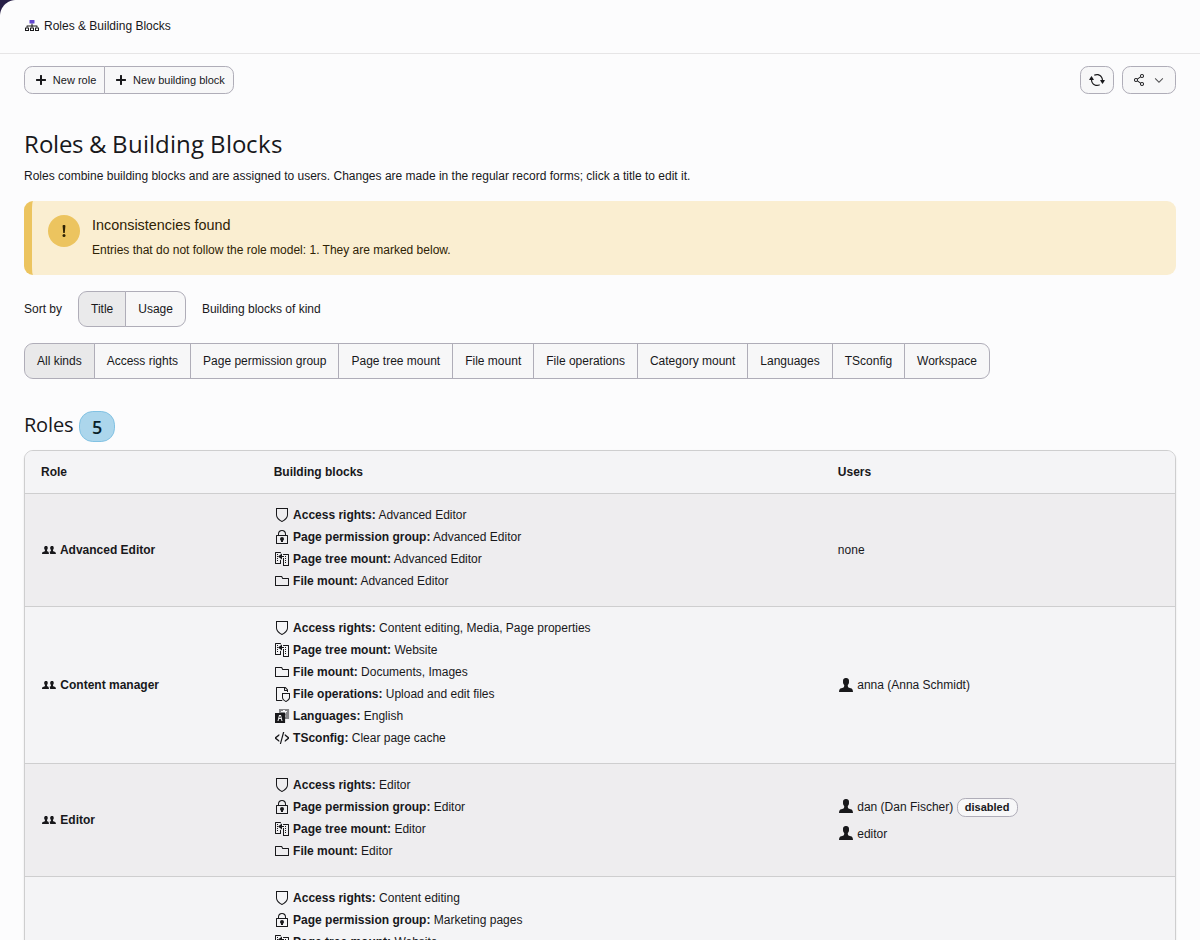
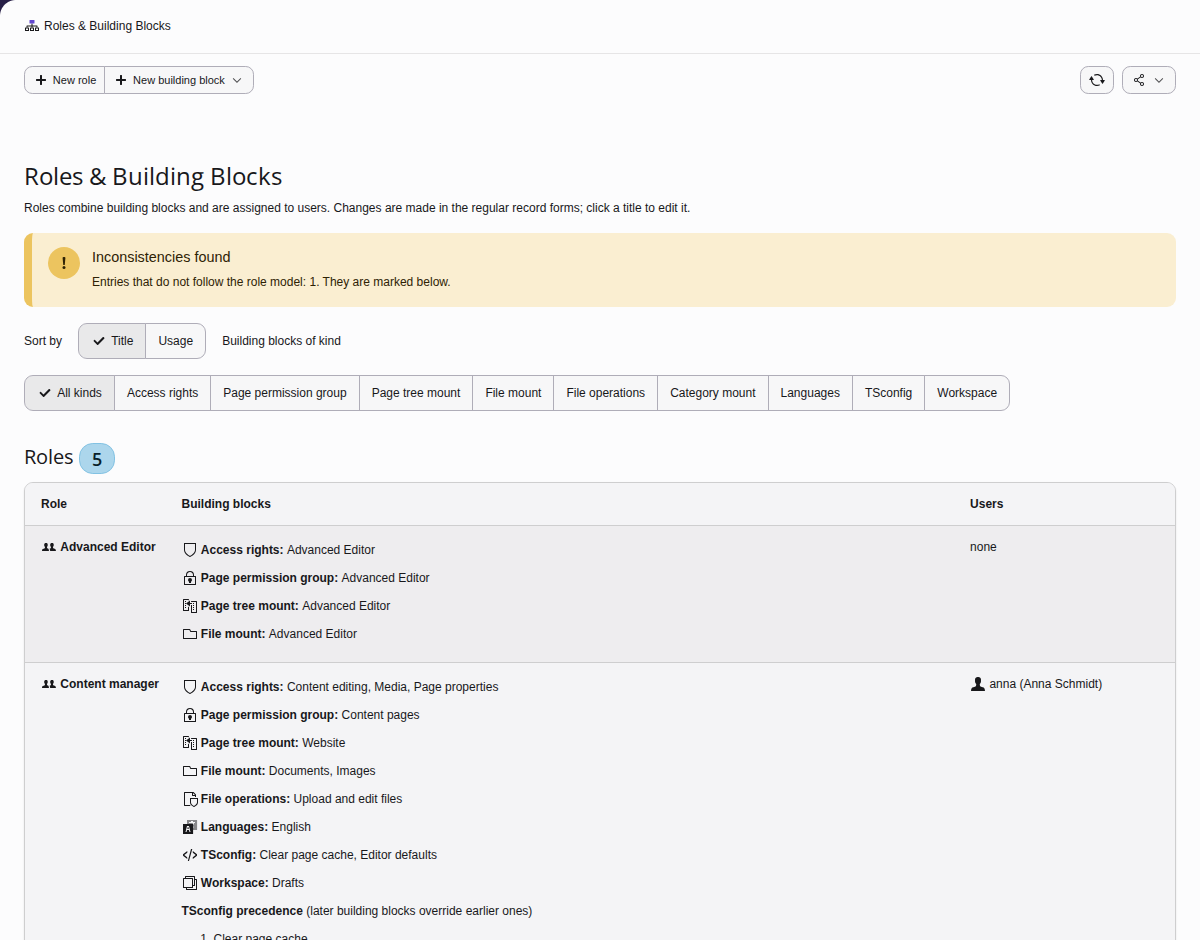
[DOCS] Show a complete role and the current module in the screenshots
The screenshots of the manual came from before the fixes of the
acceptance test: the Users module showed the icon of roles for every
group, the module had no kind menu, no marked filter and no TSconfig
precedence, and the example role started with an access-rights block
and had no workspace block, which the caption had to excuse.

The role "Content manager" of the scenario now starts with its own
page permission group and contains the workspace block, as the manual
recommends. All five screenshots are taken again in the light and the
dark theme from the core default groups after begroups:split and this
scenario, and the caption no longer needs the excuse.

diff --git a/Build/tests/playwright/e2e/forms.spec.ts b/Build/tests/playwright/e2e/forms.spec.ts
@@ -64,6 +64,7 @@ test.describe('Forms of groups', () => {
     await expect(available).toHaveAttribute('size', '17');
     // The stored order of the building blocks is their TSconfig precedence
     await expect(backend.contentFrame.locator('select[multiple][data-formengine-input-name$="[subgroup]"] option')).toHaveText([
+      /PG: Content pages/,
       /ACL: Content editing/,
       /ACL: Page properties/,
       /ACL: Media/,
@@ -74,6 +75,7 @@ test.describe('Forms of groups', () => {
       /L: English/,
       /TS: Clear page cache/,
       /TS: Editor defaults/,
+      /WS: Drafts/,
     ]);
   });
 

diff --git a/Build/tests/playwright/scenario.php b/Build/tests/playwright/scenario.php
@@ -65,6 +65,7 @@ $descriptions = [
     'English' => 'Content in the default language.',
     'Clear page cache' => 'Lets editors clear the page cache.',
     'Editor defaults' => 'Settings of the backend for editors.',
+    'Content pages' => 'Owner group of the pages of the content managers.',
     'Marketing pages' => 'Owner group of the pages of the marketing team.',
     'Products' => 'Product categories.',
     'Drafts' => 'Edits the live workspace.',
@@ -103,11 +104,12 @@ $datamap = [
         'NEWlanguage' => $group('English', 'language', ['allowed_languages' => '0']),
         'NEWts' => $group('Clear page cache', 'tsconfig', ['TSconfig' => 'options.clearCache.pages = 1']),
         'NEWtsEditor' => $group('Editor defaults', 'tsconfig', ['TSconfig' => 'options.pageTree.showPageIdWithTitle = 1']),
+        'NEWpgContent' => $group('Content pages', 'page_group'),
         'NEWpg' => $group('Marketing pages', 'page_group'),
         'NEWcm' => $group('Products', 'category_mount', ['category_perms' => (string)$products]),
         'NEWws' => $group('Drafts', 'workspace', ['workspace_perms' => 1]),
         'NEWroleContent' => $group('Content manager', 'role', [
-            'subgroup' => 'NEWaclContent,NEWaclPages,NEWaclMedia,NEWdbm,NEWfmImages,NEWfmDocuments,NEWfo,NEWlanguage,NEWts,NEWtsEditor',
+            'subgroup' => 'NEWpgContent,NEWaclContent,NEWaclPages,NEWaclMedia,NEWdbm,NEWfmImages,NEWfmDocuments,NEWfo,NEWlanguage,NEWts,NEWtsEditor,NEWws',
         ]),
         'NEWroleMarketing' => $group('Marketing', 'role', [
             'subgroup' => 'NEWpg,NEWaclContent,NEWdbm,NEWfmImages,NEWfo,NEWcm,NEWws',

diff --git a/Documentation/Localization.de_DE/Usage/Index.rst b/Documentation/Localization.de_DE/Usage/Index.rst
@@ -63,10 +63,8 @@ Benutzer mit dieser Rolle als erster Rolle anlegen.
 ..  figure:: /Images/RoleForm.png
     :alt: Formular der Rolle „META: Content manager“ mit ihren Bausteinen links und den verfügbaren Gruppen rechts, nach Typ gruppiert
 
-    Eine Rolle listet ihre Bausteine; die verfügbaren Gruppen sind nach Typ
-    gruppiert. Das Beispiel ist keine vollständige Rolle: Es beginnt mit einem
-    Baustein vom Typ „Zugriffsrechte“ und hat keinen Baustein vom Typ
-    „Workspace“. Prüfen Sie eigene Rollen wie unten beschrieben.
+    Eine Rolle listet ihre Bausteine, zuerst ihre Seitenrechte-Gruppe; die
+    verfügbaren Gruppen sind nach Typ gruppiert.
 
 Eine Rolle kann viele Bausteine kombinieren: Die Extension vergrößert das
 Feld :sql:`subgroup` auf 2048 Zeichen.

diff --git a/Documentation/Usage/Index.rst b/Documentation/Usage/Index.rst
@@ -60,10 +60,8 @@ role.
 ..  figure:: /Images/RoleForm.png
     :alt: Form of the role "META: Content manager" with its building blocks on the left and the available groups, grouped by kind, on the right
 
-    A role lists its building blocks; the available groups are grouped by kind.
-    The example is not a complete role: it starts with an "Access rights"
-    building block and has no "Workspace" building block. Check your own roles
-    as described below.
+    A role lists its building blocks, starting with its page permission group;
+    the available groups are grouped by kind.
 
 A role can combine many building blocks: the extension enlarges the field
 :sql:`subgroup` to 2048 characters.
